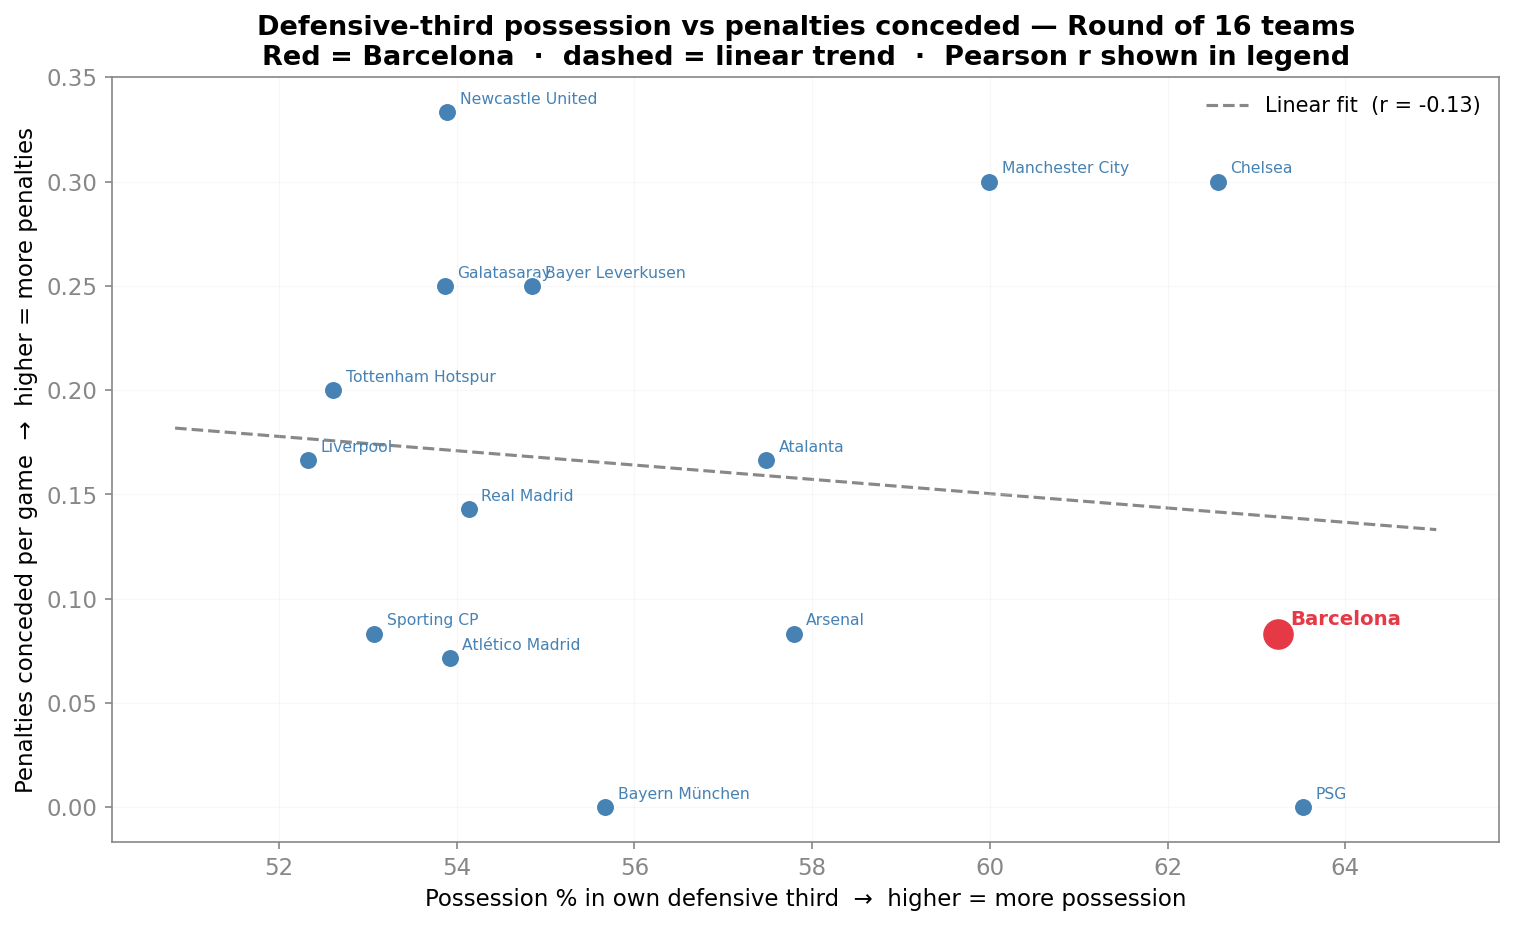
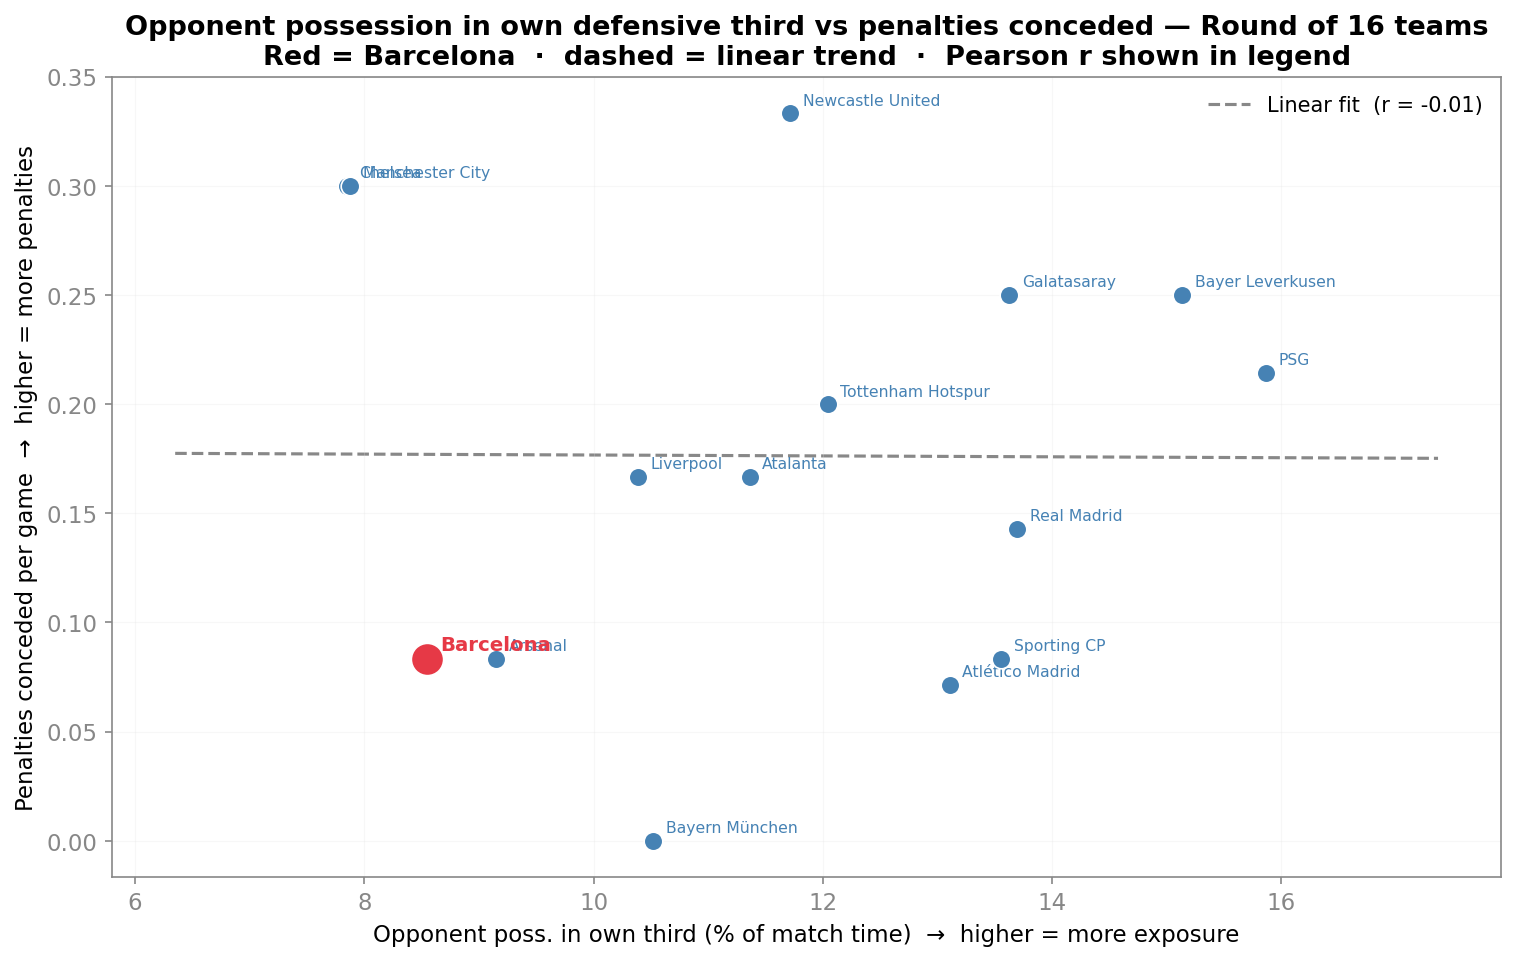
added some plots

diff --git a/src/defense/penalties/correlation_possession_penalties.py b/src/defense/penalties/correlation_possession_penalties.py
@@ -44,9 +44,14 @@ ASSETS_DIR = PROJECT_ROOT / "assets" / "defense" / "penalties"
 DATA = PROJECT_ROOT / "data" / "statsbomb"
 TEAM = "Barcelona"
 
-TYPE_PRESSURE     = 17
 DEFENSIVE_THIRD_X = 40.0
 ATTACKING_THIRD_X = 80.0
+_MAX_DT = 15.0  # seconds — cap gaps to exclude stoppages / VAR / half-time
+
+
+def _parse_ts(ts: str) -> float:
+    h, m, s = ts.split(":")
+    return int(h) * 3600 + int(m) * 60 + float(s)
 
 # Round of 16 first and second legs (Mar 10-11 and Mar 17-18, 2026)
 _R16_DATES = {"2026-03-10", "2026-03-11", "2026-03-17", "2026-03-18"}
@@ -74,17 +79,24 @@ def _last16_teams(data_dir: Path) -> frozenset[str]:
 
 # ── data collection ───────────────────────────────────────────────────
 
-def _collect(data_dir: Path, allowed_teams: frozenset[str]) -> dict[str, dict]:
-    """Single-pass collection of defensive-third possession and penalty concessions per team.
+def _collect(data_dir: Path, allowed_teams: frozenset[str] | None = None) -> dict[str, dict]:
+    """Single-pass collection using time intervals between consecutive events.
 
-    Only teams in *allowed_teams* are counted; matches where neither team is in the
-    set are skipped entirely.
+    For each interval (event_i → event_{i+1}), dt seconds are added to
+    "opp_poss_own_third_s" when the opponent has possession AND the ball is
+    in the team's defensive third.  Intervals longer than _MAX_DT are skipped
+    to avoid attributing stoppages / VAR / half-time to the last known state.
+
+    Coordinate convention (StatsBomb): each event's x is in the frame of the
+    team performing the event, with that team always attacking toward x=120.
+      • ball in T's defensive third when T performs: x < DEFENSIVE_THIRD_X
+      • ball in T's defensive third when opponent performs: x > ATTACKING_THIRD_X
     """
     records: dict[str, dict] = defaultdict(lambda: {
-        "matches":           0,
-        "def_own_touches":   0,
-        "def_opp_touches":   0,
-        "penalties_against": 0,
+        "matches":               0,
+        "opp_poss_own_third_s":  0.0,
+        "total_s":               0.0,
+        "penalties_against":     0,
     })
 
     for row, events in iter_matches(data_dir):
@@ -92,55 +104,91 @@ def _collect(data_dir: Path, allowed_teams: frozenset[str]) -> dict[str, dict]:
         away_csv = row.get("away", "").strip()
         if not home_csv or not away_csv:
             continue
-        if home_csv not in allowed_teams and away_csv not in allowed_teams:
-            continue
+        if allowed_teams is not None:
+            if home_csv not in allowed_teams and away_csv not in allowed_teams:
+                continue
 
         home_ev = _team_in_match(home_csv, row, events) or home_csv
         away_ev = _team_in_match(away_csv, row, events) or away_csv
 
-        if home_csv in allowed_teams:
+        count_home = allowed_teams is None or home_csv in allowed_teams
+        count_away = allowed_teams is None or away_csv in allowed_teams
+
+        if count_home:
             records[home_csv]["matches"] += 1
-        if away_csv in allowed_teams:
+        if count_away:
             records[away_csv]["matches"] += 1
 
+        # Sort by period then timestamp; group by period so dt never spans halves
+        timed = [
+            e for e in events
+            if e.get("timestamp") and e.get("period")
+        ]
+        timed.sort(key=lambda e: (e["period"], e["timestamp"]))
+
+        current_period: int | None = None
+        period_buf: list[dict] = []
+
+        def _flush(buf: list[dict]) -> None:
+            for i in range(len(buf) - 1):
+                ev  = buf[i]
+                nxt = buf[i + 1]
+                t0  = _parse_ts(ev["timestamp"])
+                t1  = _parse_ts(nxt["timestamp"])
+                dt  = t1 - t0
+                if dt <= 0 or dt > _MAX_DT:
+                    continue
+
+                # Accumulate total time (same cap — keeps ratio consistent)
+                if count_home:
+                    records[home_csv]["total_s"] += dt
+                if count_away:
+                    records[away_csv]["total_s"] += dt
+
+                loc = ev.get("location")
+                if not loc:
+                    continue
+                x        = float(loc[0])
+                ev_team  = ev.get("team", {}).get("name", "")
+                poss     = ev.get("possession_team", {}).get("name", "")
+
+                # home team T: is the away team (opponent) in possession in home's defensive third?
+                if count_home and poss == away_ev:
+                    if (ev_team == away_ev and x > ATTACKING_THIRD_X) or \
+                       (ev_team == home_ev and x < DEFENSIVE_THIRD_X):
+                        records[home_csv]["opp_poss_own_third_s"] += dt
+
+                # away team T: is the home team (opponent) in possession in away's defensive third?
+                if count_away and poss == home_ev:
+                    if (ev_team == home_ev and x > ATTACKING_THIRD_X) or \
+                       (ev_team == away_ev and x < DEFENSIVE_THIRD_X):
+                        records[away_csv]["opp_poss_own_third_s"] += dt
+
+        for ev in timed:
+            p = ev["period"]
+            if p != current_period:
+                _flush(period_buf)
+                current_period = p
+                period_buf = [ev]
+            else:
+                period_buf.append(ev)
+        _flush(period_buf)
+
+        # Penalties — attribute to defending team
         for e in events:
-            # Penalty shots — attribute to the defending team
             if f.is_penalty_shot(e):
                 shooter_ev = f.event_team(e)
-                if shooter_ev == home_ev and away_csv in allowed_teams:
+                if shooter_ev == home_ev and count_away:
                     records[away_csv]["penalties_against"] += 1
-                elif shooter_ev == away_ev and home_csv in allowed_teams:
+                elif shooter_ev == away_ev and count_home:
                     records[home_csv]["penalties_against"] += 1
-                continue
-
-            loc = e.get("location")
-            type_id = e.get("type", {}).get("id")
-            if not loc or type_id == TYPE_PRESSURE:
-                continue
-
-            x = float(loc[0])
-            team_ev = f.event_team(e)
-
-            if team_ev == home_ev:
-                team_csv, opp_csv = home_csv, away_csv
-            elif team_ev == away_ev:
-                team_csv, opp_csv = away_csv, home_csv
-            else:
-                continue
-
-            # x < 40 → team touches in their own defensive third
-            # x > 80 → team is in the opponent's defensive third (attribute to opponent)
-            if x < DEFENSIVE_THIRD_X and team_csv in allowed_teams:
-                records[team_csv]["def_own_touches"] += 1
-            elif x > ATTACKING_THIRD_X and opp_csv in allowed_teams:
-                records[opp_csv]["def_opp_touches"] += 1
 
     return dict(records)
 
 
 def _possession_pct(d: dict) -> float:
-    total = d["def_own_touches"] + d["def_opp_touches"]
-    return 100.0 * d["def_own_touches"] / total if total else 0.0
+    """Fraction of match time the opponent had the ball in T's defensive third (%)."""
+    return 100.0 * d["opp_poss_own_third_s"] / d["total_s"] if d["total_s"] else 0.0
 
 
 def _penalties_per_game(d: dict) -> float:
@@ -149,7 +197,7 @@ def _penalties_per_game(d: dict) -> float:
 
 # ── plot ──────────────────────────────────────────────────────────────
 
-def plot_correlation(records: dict[str, dict], save: bool = True) -> None:
+def plot_correlation(records: dict[str, dict], save: bool = True, filename: str = "correlation_possession_penalties.png", subtitle: str = "Round of 16 teams") -> None:
     points = [
         (team, _possession_pct(d), _penalties_per_game(d))
         for team, d in records.items()
@@ -190,7 +238,7 @@ def plot_correlation(records: dict[str, dict], save: bool = True) -> None:
         )
 
     ax.set_xlabel(
-        "Possession % in own defensive third  →  higher = more possession",
+        "Opponent poss. in own third (% of match time)  →  higher = more exposure",
         fontsize=11,
     )
     ax.set_ylabel(
@@ -198,7 +246,7 @@ def plot_correlation(records: dict[str, dict], save: bool = True) -> None:
         fontsize=11,
     )
     ax.set_title(
-        "Defensive-third possession vs penalties conceded — Round of 16 teams\n"
+        f"Opponent possession in own defensive third vs penalties conceded — {subtitle}\n"
         "Red = Barcelona  ·  dashed = linear trend  ·  Pearson r shown in legend",
         fontsize=13, fontweight="bold",
     )
@@ -210,7 +258,7 @@ def plot_correlation(records: dict[str, dict], save: bool = True) -> None:
 
     if save:
         ASSETS_DIR.mkdir(parents=True, exist_ok=True)
-        out = ASSETS_DIR / "correlation_possession_penalties.png"
+        out = ASSETS_DIR / filename
         fig.savefig(out, dpi=150, bbox_inches="tight")
         print(f"Saved {out}")
 
@@ -222,14 +270,24 @@ if __name__ == "__main__":
     last16 = _last16_teams(DATA)
     print(f"Round of 16 teams ({len(last16)}): {', '.join(sorted(last16))}")
 
-    print("\nCollecting data ...")
-    records = _collect(DATA, last16)
+    print("\nCollecting R16 data ...")
+    records_r16 = _collect(DATA, last16)
 
-    print(f"\n{'Team':30s}  {'Poss%':>6}  {'Pen/game':>9}  {'Matches':>7}")
-    for team, d in sorted(records.items()):
+    print(f"\n{'Team':30s}  {'OppPoss%':>9}  {'Pen/game':>9}  {'Matches':>7}")
+    for team, d in sorted(records_r16.items()):
         print(
-            f"  {team:30s}  {_possession_pct(d):6.1f}%  "
+            f"  {team:30s}  {_possession_pct(d):8.1f}%  "
             f"{_penalties_per_game(d):9.3f}  {d['matches']:7d}"
         )
+    plot_correlation(records_r16, filename="correlation_possession_penalties.png", subtitle="Round of 16 teams")
 
-    plot_correlation(records)
+    print("\nCollecting all-teams data ...")
+    records_all = _collect(DATA)
+
+    print(f"\n{'Team':30s}  {'OppPoss%':>9}  {'Pen/game':>9}  {'Matches':>7}")
+    for team, d in sorted(records_all.items()):
+        print(
+            f"  {team:30s}  {_possession_pct(d):8.1f}%  "
+            f"{_penalties_per_game(d):9.3f}  {d['matches']:7d}"
+        )
+    plot_correlation(records_all, filename="correlation_possession_penalties_all_teams.png", subtitle="all teams")

diff --git a/src/defense/penalties/correlation_fouls_penalties.py b/src/defense/penalties/correlation_fouls_penalties.py
@@ -73,10 +73,10 @@ def _last16_teams(data_dir: Path) -> frozenset[str]:
 
 # ── data collection ───────────────────────────────────────────────────
 
-def _collect(data_dir: Path, allowed_teams: frozenset[str]) -> dict[str, dict]:
+def _collect(data_dir: Path, allowed_teams: frozenset[str] | None = None) -> dict[str, dict]:
     """Single-pass collection of fouls committed and penalties conceded per team.
 
-    Only teams in *allowed_teams* are counted.
+    If *allowed_teams* is None, all teams in the data are included.
     """
     records: dict[str, dict] = defaultdict(lambda: {
         "matches":           0,
@@ -89,24 +89,28 @@ def _collect(data_dir: Path, allowed_teams: frozenset[str]) -> dict[str, dict]:
         away_csv = row.get("away", "").strip()
         if not home_csv or not away_csv:
             continue
-        if home_csv not in allowed_teams and away_csv not in allowed_teams:
-            continue
+        if allowed_teams is not None:
+            if home_csv not in allowed_teams and away_csv not in allowed_teams:
+                continue
 
         home_ev = _team_in_match(home_csv, row, events) or home_csv
         away_ev = _team_in_match(away_csv, row, events) or away_csv
 
-        if home_csv in allowed_teams:
+        count_home = allowed_teams is None or home_csv in allowed_teams
+        count_away = allowed_teams is None or away_csv in allowed_teams
+
+        if count_home:
             records[home_csv]["matches"] += 1
-        if away_csv in allowed_teams:
+        if count_away:
             records[away_csv]["matches"] += 1
 
         for e in events:
             # Penalty shots — attribute to the defending team
             if f.is_penalty_shot(e):
                 shooter_ev = f.event_team(e)
-                if shooter_ev == home_ev and away_csv in allowed_teams:
+                if shooter_ev == home_ev and count_away:
                     records[away_csv]["penalties_against"] += 1
-                elif shooter_ev == away_ev and home_csv in allowed_teams:
+                elif shooter_ev == away_ev and count_home:
                     records[home_csv]["penalties_against"] += 1
                 continue
 
@@ -114,9 +118,9 @@ def _collect(data_dir: Path, allowed_teams: frozenset[str]) -> dict[str, dict]:
             if not is_foul_committed(e):
                 continue
             team_ev = e.get("team", {}).get("name", "")
-            if team_ev == home_ev and home_csv in allowed_teams:
+            if team_ev == home_ev and count_home:
                 records[home_csv]["fouls"] += 1
-            elif team_ev == away_ev and away_csv in allowed_teams:
+            elif team_ev == away_ev and count_away:
                 records[away_csv]["fouls"] += 1
 
     return dict(records)
@@ -131,7 +135,7 @@ def _penalties_per_game(d: dict) -> float:
 
 # ── plot ──────────────────────────────────────────────────────────────
 
-def plot_correlation(records: dict[str, dict], save: bool = True) -> None:
+def plot_correlation(records: dict[str, dict], save: bool = True, filename: str = "correlation_fouls_penalties.png", subtitle: str = "Round of 16 teams") -> None:
     points = [
         (team, _fouls_per_game(d), _penalties_per_game(d))
         for team, d in records.items()
@@ -180,7 +184,7 @@ def plot_correlation(records: dict[str, dict], save: bool = True) -> None:
         fontsize=11,
     )
     ax.set_title(
-        "Fouls committed vs penalties conceded — Round of 16 teams\n"
+        f"Fouls committed vs penalties conceded — {subtitle}\n"
         "Red = Barcelona  ·  dashed = linear trend  ·  Pearson r shown in legend",
         fontsize=13, fontweight="bold",
     )
@@ -192,7 +196,7 @@ def plot_correlation(records: dict[str, dict], save: bool = True) -> None:
 
     if save:
         ASSETS_DIR.mkdir(parents=True, exist_ok=True)
-        out = ASSETS_DIR / "correlation_fouls_penalties.png"
+        out = ASSETS_DIR / filename
         fig.savefig(out, dpi=150, bbox_inches="tight")
         print(f"Saved {out}")
 
@@ -204,14 +208,24 @@ if __name__ == "__main__":
     last16 = _last16_teams(DATA)
     print(f"Round of 16 teams ({len(last16)}): {', '.join(sorted(last16))}")
 
-    print("\nCollecting data ...")
-    records = _collect(DATA, last16)
+    print("\nCollecting R16 data ...")
+    records_r16 = _collect(DATA, last16)
 
     print(f"\n{'Team':30s}  {'Matches':>7}  {'F/game':>7}  {'Pen/game':>9}")
-    for team, d in sorted(records.items()):
+    for team, d in sorted(records_r16.items()):
         print(
             f"  {team:30s}  {d['matches']:7d}  "
             f"{_fouls_per_game(d):7.2f}  {_penalties_per_game(d):9.3f}"
         )
+    plot_correlation(records_r16, filename="correlation_fouls_penalties.png", subtitle="Round of 16 teams")
 
-    plot_correlation(records)
+    print("\nCollecting all-teams data ...")
+    records_all = _collect(DATA)
+
+    print(f"\n{'Team':30s}  {'Matches':>7}  {'F/game':>7}  {'Pen/game':>9}")
+    for team, d in sorted(records_all.items()):
+        print(
+            f"  {team:30s}  {d['matches']:7d}  "
+            f"{_fouls_per_game(d):7.2f}  {_penalties_per_game(d):9.3f}"
+        )
+    plot_correlation(records_all, filename="correlation_fouls_penalties_all_teams.png", subtitle="all teams")
